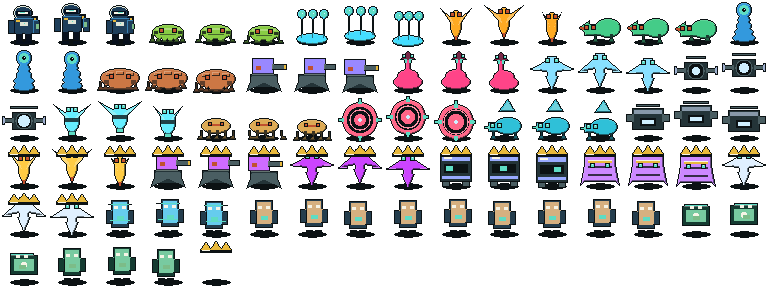
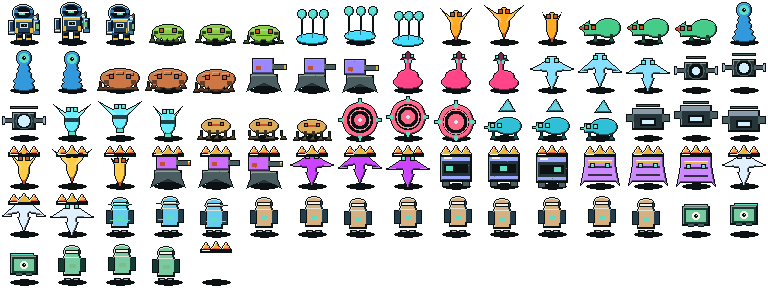
feat: field-suit surveyor, denser remaining floors, stronger bloom
Give the player a visor, pack lamp, and webbing; thicken leftover biome
motifs; raise pool wash so lamp light reads as mass on the shelf.

diff --git a/src/art/paint/actors.ts b/src/art/paint/actors.ts
@@ -3,7 +3,7 @@ import { Material, Theme } from '../../scenes/theme';
 import { actorPalette } from '../palette';
 import type { Frame } from '../pack';
 import { bodyShades, Px } from '../px';
-import { bevelRect, finishSprite, volume } from '../shade';
+import { bevelRect, finishSprite, grit, volume } from '../shade';
 import { HOVER_SHAPES, silhouetteFor, type Silhouette } from '../silhouette';
 
 function eyes(px: Px, cx: number, y: number, spread: number, size: number, ion: boolean): void {
@@ -205,18 +205,21 @@ function paintShape(
     }
     case 'turret': {
       const swivel = frame === 1 ? 4 : frame === 2 ? -4 : 0;
-      bevelRect(px, 10, 26 + bob, 28, 14, Theme.inkMute, Theme.panel, Theme.groundDeep);
+      bevelRect(px, 10, 26 + bob, 28, 14, Theme.inkMute, Theme.panel, Theme.groundDeep, Theme.inkDim, Theme.groundDeep);
       px.fillTriangle(6, 44 + bob, 12, 28 + bob, 36, 28 + bob, Theme.panelEdge);
       px.fillTriangle(42, 44 + bob, 36, 28 + bob, 12, 28 + bob, Theme.panelEdge);
-      bevelRect(px, 12 + swivel, 10 + bob, 22, 16, lit, mid, deep);
+      volume(px, Theme.panel, Theme.inkMute, Theme.groundDeep, Theme.groundDeep, Theme.inkDim);
+      bevelRect(px, 12 + swivel, 10 + bob, 22, 16, lit, mid, deep, lift, rim);
       bevelRect(px, 32 + swivel, 16 + bob, 14, 6, Theme.inkMute, Theme.panelEdge, Theme.groundDeep);
       px.fillRect(44 + swivel, 16 + bob, 3, 6, Theme.tape);
       px.fillRect(16 + swivel, 18 + bob, 5, 4, threat);
+      grit(px, Theme.inkMute, 5, 11 + frame);
       break;
     }
     case 'emitter': {
       if (kind === 'duct_drone') {
-        bevelRect(px, 8, 12 + bob, 32, 22, Theme.inkMute, Theme.panel, Theme.groundDeep);
+        bevelRect(px, 8, 12 + bob, 32, 22, Theme.inkMute, Theme.panel, Theme.groundDeep, Theme.inkDim, Theme.groundDeep);
+        volume(px, Theme.panel, Theme.inkMute, Theme.groundDeep, Theme.groundDeep, Theme.inkDim);
         px.fillRect(10, 14 + bob, 28, 4, mid);
         px.fillRect(2, 18 + bob, 8, 8, Theme.panelEdge);
         px.fillRect(38, 18 + bob, 8, 8, Theme.panelEdge);
@@ -224,7 +227,8 @@ function paintShape(
         px.fillRect(18, 24 + bob, 12, 4, Theme.arcWhite);
         px.fillRect(12 - frame, 8 + bob, 24 + frame * 2, 3, Theme.panelEdge);
       } else {
-        bevelRect(px, 12, 14 + bob, 24, 18, Theme.inkMute, Theme.panel, Theme.groundDeep);
+        bevelRect(px, 12, 14 + bob, 24, 18, Theme.inkMute, Theme.panel, Theme.groundDeep, Theme.inkDim, Theme.groundDeep);
+        volume(px, Theme.panel, Theme.inkMute, Theme.groundDeep, Theme.groundDeep, Theme.inkDim);
         px.fillRect(2, 20 + bob, 12, 5, Theme.panelEdge);
         px.fillRect(34, 20 + bob, 12, 5, Theme.panelEdge);
         px.fillRect(2, 18 + bob, 3, 9, mid);
@@ -237,7 +241,8 @@ function paintShape(
       break;
     }
     case 'chassis': {
-      bevelRect(px, 8, 10 + bob, 32, 28, Theme.inkMute, Theme.panel, Theme.groundDeep);
+      bevelRect(px, 8, 10 + bob, 32, 28, Theme.inkMute, Theme.panel, Theme.groundDeep, Theme.inkDim, Theme.groundDeep);
+      volume(px, Theme.panel, Theme.inkMute, Theme.groundDeep, Theme.groundDeep, Theme.inkDim);
       px.fillRect(10, 12 + bob, 28, 5, mid);
       px.fillRect(10, 32 + bob, 28, 3, mid);
       px.fillRect(12, 20 + bob, 24, 9, Theme.groundDeep);
@@ -245,6 +250,7 @@ function paintShape(
       px.fillRect(10, 38 + bob, 8, 5, Theme.panelEdge);
       px.fillRect(30, 38 + bob, 8, 5, Theme.panelEdge);
       px.fillRect(12, 13 + bob, 8, 2, Theme.inkBright);
+      grit(px, Theme.inkMute, 6, 19 + frame);
       break;
     }
     case 'coil': {
@@ -295,6 +301,7 @@ function paintCrown(px: Px): void {
   px.fillTriangle(8, 10, 14, 1, 20, 10, Theme.tape);
   px.fillTriangle(18, 10, 24, 0, 30, 10, Theme.tape);
   px.fillTriangle(28, 10, 34, 1, 40, 10, Theme.tape);
+  volume(px, Theme.tape, Theme.inkBright, Theme.groundDeep, Theme.arc, Theme.inkBright);
   px.fillRect(8, 10, 32, 3, Theme.groundDeep);
   px.fillRect(10, 10, 8, 1, Theme.inkBright);
   px.set(14, 3, Theme.inkBright);
@@ -326,28 +333,48 @@ function paintPlayer(frame: number): Px {
   const px = new Px();
   const bob = frame === 1 ? -2 : 0;
   const stride = frame === 2 ? 2 : frame === 1 ? -2 : 0;
-  // Pack
-  bevelRect(px, 28, 16 + bob, 10, 14, Material.suitMid, Material.suitDeep, Theme.groundDeep);
-  px.fillRect(30, 18 + bob, 6, 3, Theme.tape);
-  // Helmet
-  px.fillEllipse(23, 13 + bob, 10, 8, Material.suitMid);
+  const lLeg = 16 + Math.min(0, stride);
+  const rLeg = 25 + Math.max(0, stride);
+  // Field pack — sealed case with tape rail and lamp housing.
+  bevelRect(px, 27, 15 + bob, 12, 16, Material.suitLit, Material.suitDeep, Theme.groundDeep, Material.suitMid, Theme.groundDeep);
+  px.fillRect(29, 17 + bob, 8, 3, Theme.tape);
+  px.fillRect(29, 18 + bob, 8, 1, Theme.inkBright);
+  px.fillRect(31, 22 + bob, 5, 6, Material.suitMid);
+  px.fillRect(32, 23 + bob, 3, 2, Theme.biolum);
+  px.fillRect(36, 14 + bob, 3, 4, Theme.panelEdge);
+  px.set(37, 13 + bob, Theme.tape);
+  grit(px, Theme.inkMute, 4, 5 + frame);
+  // Helmet + visor glass.
+  px.fillEllipse(23, 13 + bob, 11, 9, Material.suitMid);
   volume(px, Material.suitMid, Material.suitLit, Material.suitDeep, Material.suitDeep, Theme.ink);
+  px.fillEllipse(23, 13 + bob, 8, 6, Material.visor);
   px.fillRect(16, 11 + bob, 14, 5, Material.visor);
-  px.fillRect(18, 12 + bob, 10, 2, Theme.inkBright);
-  px.fillRect(20 + frame, 12 + bob, 5, 1, Theme.biolum);
-  // Torso
-  bevelRect(px, 14, 18 + bob, 20, 16, Material.suitLit, Material.suitMid, Material.suitDeep);
-  px.fillRect(20, 22 + bob, 8, 4, Theme.ink);
-  px.set(24, 23 + bob, Theme.biolum);
-  px.fillRect(16, 20 + bob, 4, 2, Theme.tape);
-  // Arms
-  bevelRect(px, 8 + stride, 20 + bob, 7, 14, Material.suitLit, Material.suitMid, Material.suitDeep);
-  bevelRect(px, 33 - stride, 20 + bob, 7, 14, Material.suitLit, Material.suitMid, Material.suitDeep);
-  // Legs + boots
-  bevelRect(px, 16 + Math.min(0, stride), 33 + bob, 7, 10, Material.suitMid, Material.suitDeep, Theme.groundDeep);
-  bevelRect(px, 25 + Math.max(0, stride), 33 + bob, 7, 10, Material.suitMid, Material.suitDeep, Theme.groundDeep);
-  px.fillRect(15 + Math.min(0, stride), 41, 9, 4, Material.visor);
-  px.fillRect(24 + Math.max(0, stride), 41, 9, 4, Material.visor);
+  px.fillRect(17, 12 + bob, 12, 1, Theme.inkBright);
+  px.fillRect(19 + frame, 13 + bob, 6, 2, Theme.biolum);
+  px.set(22 + frame, 13 + bob, Theme.arcWhite);
+  px.fillRect(14, 10 + bob, 4, 3, Material.suitLit);
+  px.fillRect(30, 10 + bob, 4, 3, Material.suitLit);
+  // Torso webbing.
+  bevelRect(px, 14, 18 + bob, 20, 16, Material.suitLit, Material.suitMid, Material.suitDeep, Theme.ink, Material.suitDeep);
+  px.fillRect(16, 20 + bob, 16, 2, Theme.tape);
+  px.fillRect(20, 23 + bob, 8, 5, Theme.ink);
+  px.fillRect(21, 24 + bob, 6, 3, Theme.groundDeep);
+  px.set(24, 25 + bob, Theme.biolum);
+  px.fillRect(15, 28 + bob, 3, 5, Theme.tape);
+  px.fillRect(30, 28 + bob, 3, 5, Theme.tape);
+  // Arms + gloves.
+  bevelRect(px, 8 + stride, 20 + bob, 7, 14, Material.suitLit, Material.suitMid, Material.suitDeep, Theme.ink, Material.suitDeep);
+  bevelRect(px, 33 - stride, 20 + bob, 7, 14, Material.suitLit, Material.suitMid, Material.suitDeep, Theme.ink, Material.suitDeep);
+  px.fillRect(8 + stride, 31 + bob, 7, 4, Material.suitLit);
+  px.fillRect(33 - stride, 31 + bob, 7, 4, Material.suitLit);
+  px.fillRect(9 + stride, 32 + bob, 5, 1, Theme.inkBright);
+  // Legs + taped boots.
+  bevelRect(px, lLeg, 33 + bob, 7, 10, Material.suitMid, Material.suitDeep, Theme.groundDeep, Material.suitMid, Theme.groundDeep);
+  bevelRect(px, rLeg, 33 + bob, 7, 10, Material.suitMid, Material.suitDeep, Theme.groundDeep, Material.suitMid, Theme.groundDeep);
+  px.fillRect(lLeg, 41, 9, 4, Material.visor);
+  px.fillRect(rLeg - 1, 41, 9, 4, Material.visor);
+  px.fillRect(lLeg + 1, 38 + bob, 5, 2, Theme.tape);
+  px.fillRect(rLeg + 1, 38 + bob, 5, 2, Theme.tape);
   px.fillRect(36, 24 + bob, 3, 5, Theme.safe);
   finishSprite(px, actorPalette());
   return px;
@@ -365,23 +392,31 @@ function paintContact(role: 'npc' | 'ally', kind: string, frame: number): Px {
   const bob = frame === 1 ? -1 : frame === 2 ? 1 : 0;
   const stride = frame === 1 ? 2 : frame === 2 ? -2 : 0;
   if (kind.includes('drone')) {
-    bevelRect(px, 10, 14 + bob, 28, 20, Theme.inkMute, rim, Theme.groundDeep);
+    bevelRect(px, 10, 14 + bob, 28, 20, Theme.inkMute, rim, Theme.groundDeep, Theme.inkDim, Theme.groundDeep);
     px.fillRect(14, 18 + bob, 20, 12, body);
     volume(px, body, Theme.inkBright, rim, rim, Theme.ink);
     px.fillRect(12 + stride, 12 + bob, 24, 2, Theme.biolum);
-    px.fillDisc(24, 24 + bob, 3, Theme.inkBright);
+    px.fillDisc(24, 24 + bob, 4, Theme.inkBright);
+    px.fillDisc(24, 24 + bob, 2, Theme.groundDeep);
+    px.set(24, 23 + bob, Theme.arcWhite);
+    px.fillRect(16, 32 + bob, 6, 3, Theme.panelEdge);
+    px.fillRect(26, 32 + bob, 6, 3, Theme.panelEdge);
   } else {
-    bevelRect(px, 15 + stride, 8 + bob, 18, 28, body, rim, Theme.groundDeep);
-    px.fillRect(17 + stride, 10 + bob, 14, 22, body);
+    px.fillEllipse(24 + stride, 12 + bob, 9, 7, body);
+    volume(px, body, Theme.inkBright, rim, rim, Theme.ink);
+    px.fillRect(17 + stride, 10 + bob, 14, 4, Theme.groundDeep);
+    px.fillRect(18 + stride, 11 + bob, 12, 2, Theme.inkBright);
+    bevelRect(px, 15 + stride, 16 + bob, 18, 20, body, rim, Theme.groundDeep, Theme.ink, Theme.groundDeep);
+    px.fillRect(17 + stride, 18 + bob, 14, 16, body);
     volume(px, body, Theme.inkBright, rim, rim, Theme.ink);
     bevelRect(px, 10 + stride, 18 + bob, 7, 14, body, rim, Theme.groundDeep);
     bevelRect(px, 31 + stride, 18 + bob, 7, 14, body, rim, Theme.groundDeep);
     px.fillRect(16 + stride, 38, 7, 4, Theme.groundDeep);
     px.fillRect(25 + stride, 38, 7, 4, Theme.groundDeep);
+    px.fillRect(18 + stride, 39, 4, 1, Theme.tape);
+    px.fillRect(26 + stride, 39, 4, 1, Theme.tape);
+    px.fillRect(21 + stride, 24 + bob, 7, 4, ally ? Theme.safe : Theme.biolum);
   }
-  px.fillRect(18 + stride, 14 + bob, 4, 3, Theme.inkBright);
-  px.fillRect(26 + stride, 14 + bob, 4, 3, Theme.inkBright);
-  px.fillRect(21 + stride, 24 + bob, 7, 4, ally ? Theme.safe : Theme.biolum);
   if (kind === 'archive_holo') {
     px.fillRect(12, 12 + bob, 24, 1, Theme.biolum);
     px.fillRect(14, 28 + bob, 20, 1, Theme.biolum);

diff --git a/src/art/paint/floors.ts b/src/art/paint/floors.ts
@@ -239,24 +239,28 @@ function motif(px: Px, sector: SectorId, variant: number): void {
       break;
     }
     case 'ridge':
-      wanderH(px, 13, seed, accent);
-      wanderH(px, 26, seed + 11, mix(Material.rock, accent, 0.35));
-      wanderH(px, 38, seed + 23, Theme.groundDeep);
-      grit(px, Theme.inkMute, 8, garnish);
+      wanderH(px, 13, seed, accent, Theme.groundDeep);
+      wanderH(px, 26, seed + 11, mix(Material.rock, accent, 0.35), Material.recess);
+      wanderH(px, 38, seed + 23, Theme.groundDeep, Material.recess);
+      grit(px, Theme.inkMute, 12, garnish);
+      grit(px, Material.rockLit, 8, garnish + 3);
       break;
     case 'canopy': {
       let n = garnish | 0;
-      for (let i = 0; i < 8; i++) {
+      for (let i = 0; i < 12; i++) {
         n = lcg(n);
         const x = ((n >>> 16) >>> 0) % TILE;
         n = lcg(n);
         const y = ((n >>> 16) >>> 0) % TILE;
         fillTriangleW(px, x, y + 3, x + 4, y, x + 7, y + 4, mix(Material.foliage, accent, 0.3));
+        if (i % 3 === 0) fillDiscW(px, x + 2, y + 2, 1.4, Theme.safe);
       }
       lineW(px, 2, 32, 22, 18, mix(Material.foliage, Theme.groundDeep, 0.35));
       lineW(px, 22, 18, 50, 34, mix(Material.foliage, Theme.groundDeep, 0.35));
+      lineW(px, 8, 40, 28, 22, mix(Material.foliage, Material.recess, 0.4));
       lineW(px, 3, 31, 22, 17, shade(accent, 0.65));
       lineW(px, 22, 17, 50, 33, shade(accent, 0.65));
+      grit(px, Material.foliage, 10, garnish);
       break;
     }
     case 'flood': {
@@ -280,28 +284,33 @@ function motif(px: Px, sector: SectorId, variant: number): void {
       break;
     case 'reef': {
       let n = garnish | 0;
-      for (let i = 0; i < 4; i++) {
+      for (let i = 0; i < 6; i++) {
         n = lcg(n);
         const x = ((n >>> 16) >>> 0) % TILE;
         n = lcg(n);
         const y = ((n >>> 16) >>> 0) % TILE;
-        fillDiscW(px, x + 3, y + 6, 2, mix(Material.rock, accent, 0.3));
+        fillDiscW(px, x + 3, y + 6, 2.2, mix(Material.rock, accent, 0.3));
         fillTriangleW(px, x, y + 7, x + 3, y, x + 6, y + 7, accent);
         lineW(px, x + 3, y + 1, x + 3, y + 6, Theme.inkBright);
+        setW(px, x + 3, y, Theme.inkBright);
       }
+      grit(px, Material.brineLit, 8, garnish);
       break;
     }
     case 'ash': {
       let n = seed | 0;
-      for (let i = 0; i < 3; i++) {
+      for (let i = 0; i < 5; i++) {
         n = lcg(n);
         const cx = ((n >>> 16) >>> 0) % TILE;
         n = lcg(n);
         const cy = ((n >>> 16) >>> 0) % TILE;
         fillDiscW(px, cx, cy, 5 + i, mix(Material.debris, tint, 0.28));
         lineW(px, cx - 7, cy - 2, cx + 6, cy - 1, shade(tint, 0.7));
+        lineW(px, cx - 5, cy, cx + 4, cy + 1, Theme.groundDeep);
       }
       if (variant === 2) lineW(px, 12, 22, 34, 25, Theme.arc);
+      grit(px, Material.debris, 12, garnish);
+      grit(px, Theme.inkMute, 8, garnish + 5);
       break;
     }
     case 'fissure':
@@ -312,23 +321,30 @@ function motif(px: Px, sector: SectorId, variant: number): void {
       lineW(px, 19, 22, 30, 40, Theme.groundDeep);
       lineW(px, 3, 5, 18, 22, accent);
       lineW(px, 18, 22, 40, 15, accent);
-      fillDiscW(px, 18, 22, 1.6, Theme.arc);
+      lineW(px, 19, 23, 9, 48, Theme.arc);
+      fillDiscW(px, 18, 22, 2.2, Theme.arc);
+      fillDiscW(px, 40, 14, 1.6, Theme.arcWhite);
+      grit(px, Theme.rust, 6, garnish);
       break;
     case 'approach':
       wanderV(px, 11, seed, mix(Material.debris, tint, 0.4), Material.recess);
       wanderV(px, 24, seed + 9, mix(Material.debris, tint, 0.35), Theme.inkMute);
       wanderV(px, 37, seed + 17, mix(Material.debris, tint, 0.4), Material.recess);
-      grit(px, Theme.inkMute, 8, garnish);
+      wanderV(px, 18, seed + 21, Material.recess, Theme.groundDeep);
+      grit(px, Theme.inkMute, 12, garnish);
+      grit(px, Material.debris, 8, garnish + 7);
       break;
     case 'trench':
       wanderH(px, 15, seed, Theme.inkMute, mix(Material.deck, tint, 0.28));
       wanderH(px, 28, seed + 15, Theme.inkMute, Theme.groundDeep);
       wanderH(px, 40, seed + 29, mix(Material.deck, tint, 0.35), Theme.groundDeep);
-      grit(px, Material.recess, 6, garnish);
+      wanderH(px, 8, seed + 5, Theme.tape, Theme.groundDeep);
+      grit(px, Material.recess, 10, garnish);
+      grit(px, Theme.panelEdge, 6, garnish + 2);
       break;
     case 'ruin': {
       let n = garnish | 0;
-      for (let i = 0; i < 2; i++) {
+      for (let i = 0; i < 4; i++) {
         n = lcg(n);
         const x = ((n >>> 16) >>> 0) % TILE;
         n = lcg(n);
@@ -341,12 +357,14 @@ function motif(px: Px, sector: SectorId, variant: number): void {
           y + 2,
           x + 2,
           y + 7 + i,
-          i === 0 ? Material.recess : mix(Material.debris, tint, 0.28),
+          i % 2 === 0 ? Material.recess : mix(Material.debris, tint, 0.28),
         );
       }
       lineW(px, 10, 8, 14, 40, Theme.rust);
       lineW(px, 32, 12, 36, 44, Theme.rust);
+      lineW(px, 11, 8, 15, 40, Theme.inkMute);
       grit(px, Theme.rust, 8, garnish);
+      grit(px, Material.debris, 8, garnish + 4);
       break;
     }
     case 'duct': {
@@ -355,9 +373,13 @@ function motif(px: Px, sector: SectorId, variant: number): void {
       for (const g of gaps) {
         for (let x = 0; x < TILE; x++) setW(px, x, y, mix(Material.conduit, tint, 0.28));
         for (let x = 0; x < TILE; x++) setW(px, x, y + 1, Theme.groundDeep);
+        for (let x = 4; x < TILE; x += 8) {
+          setW(px, x, y, Theme.panelEdge);
+          setW(px, x, y + 1, Material.recess);
+        }
         y += g;
       }
-      grit(px, Theme.inkMute, 6, garnish);
+      grit(px, Theme.inkMute, 8, garnish);
       break;
     }
     case 'spire': {
@@ -375,21 +397,26 @@ function motif(px: Px, sector: SectorId, variant: number): void {
     }
     case 'vault': {
       let n = seed | 0;
-      for (let row = 0; row < 2; row++) {
-        const y = 16 + row * 16;
+      for (let row = 0; row < 3; row++) {
+        const y = 10 + row * 12;
         for (let x = 0; x < TILE; x++) {
           n = lcg(n);
           const rise = Math.abs((x % 16) - 8);
-          if (((n >>> 16) >>> 0) % 6 !== 0) setW(px, x, y + rise, Theme.panelEdge);
+          if (((n >>> 16) >>> 0) % 5 !== 0) setW(px, x, y + rise, Theme.panelEdge);
+          if (x % 16 === 8) setW(px, x, y + rise + 1, Material.recess);
         }
       }
-      grit(px, Theme.inkMute, 6, garnish);
+      grit(px, Theme.inkMute, 8, garnish);
+      grit(px, Material.deckLit, 6, garnish + 2);
       break;
     }
     case 'beacon':
-      wanderH(px, 16, seed, Theme.tape);
-      wanderH(px, 31, seed + 8, Theme.inkBright);
-      grit(px, Theme.inkDim, 5, garnish);
+      wanderH(px, 16, seed, Theme.tape, Theme.groundDeep);
+      wanderH(px, 31, seed + 8, Theme.inkBright, Theme.inkMute);
+      wanderH(px, 8, seed + 3, Theme.panelEdge, Theme.groundDeep);
+      fillDiscW(px, 24, 24, 3, Theme.tape);
+      setW(px, 24, 24, Theme.inkBright);
+      grit(px, Theme.inkDim, 8, garnish);
       break;
   }
 }

diff --git a/src/game/views/LightView.ts b/src/game/views/LightView.ts
@@ -31,7 +31,7 @@ const MAX_SOURCES = 12;
 /** Additive washes per pool — two soft shells, not onion rings. */
 const POOL_SCALES = [1.05, 0.58] as const;
 /** Relative alpha per wash (outer → body). */
-const POOL_ALPHA = [0.14, 0.28] as const;
+const POOL_ALPHA = [0.18, 0.34] as const;
 
 function poolSeed(x: number, y: number, radius: number): number {
   return ((Math.floor(x * 17) ^ Math.floor(y * 31) ^ Math.floor(radius * 10)) >>> 0) || 1;
@@ -486,7 +486,7 @@ export class LightView {
         for (let k = 0; k < POOL_SCALES.length; k++) {
           const scale = POOL_SCALES[k]!;
           const shellAlpha = aCore * POOL_ALPHA[k]! * (0.45 + 0.55 * atten);
-          this.lightsGfx.fillStyle(s.color, Math.min(0.28, shellAlpha));
+          this.lightsGfx.fillStyle(s.color, Math.min(0.34, shellAlpha));
           this.lightsGfx.fillPoints(this.shellPointsAt(rays, cx, cy, scale, seed + k * 19), true);
         }
       } else {
